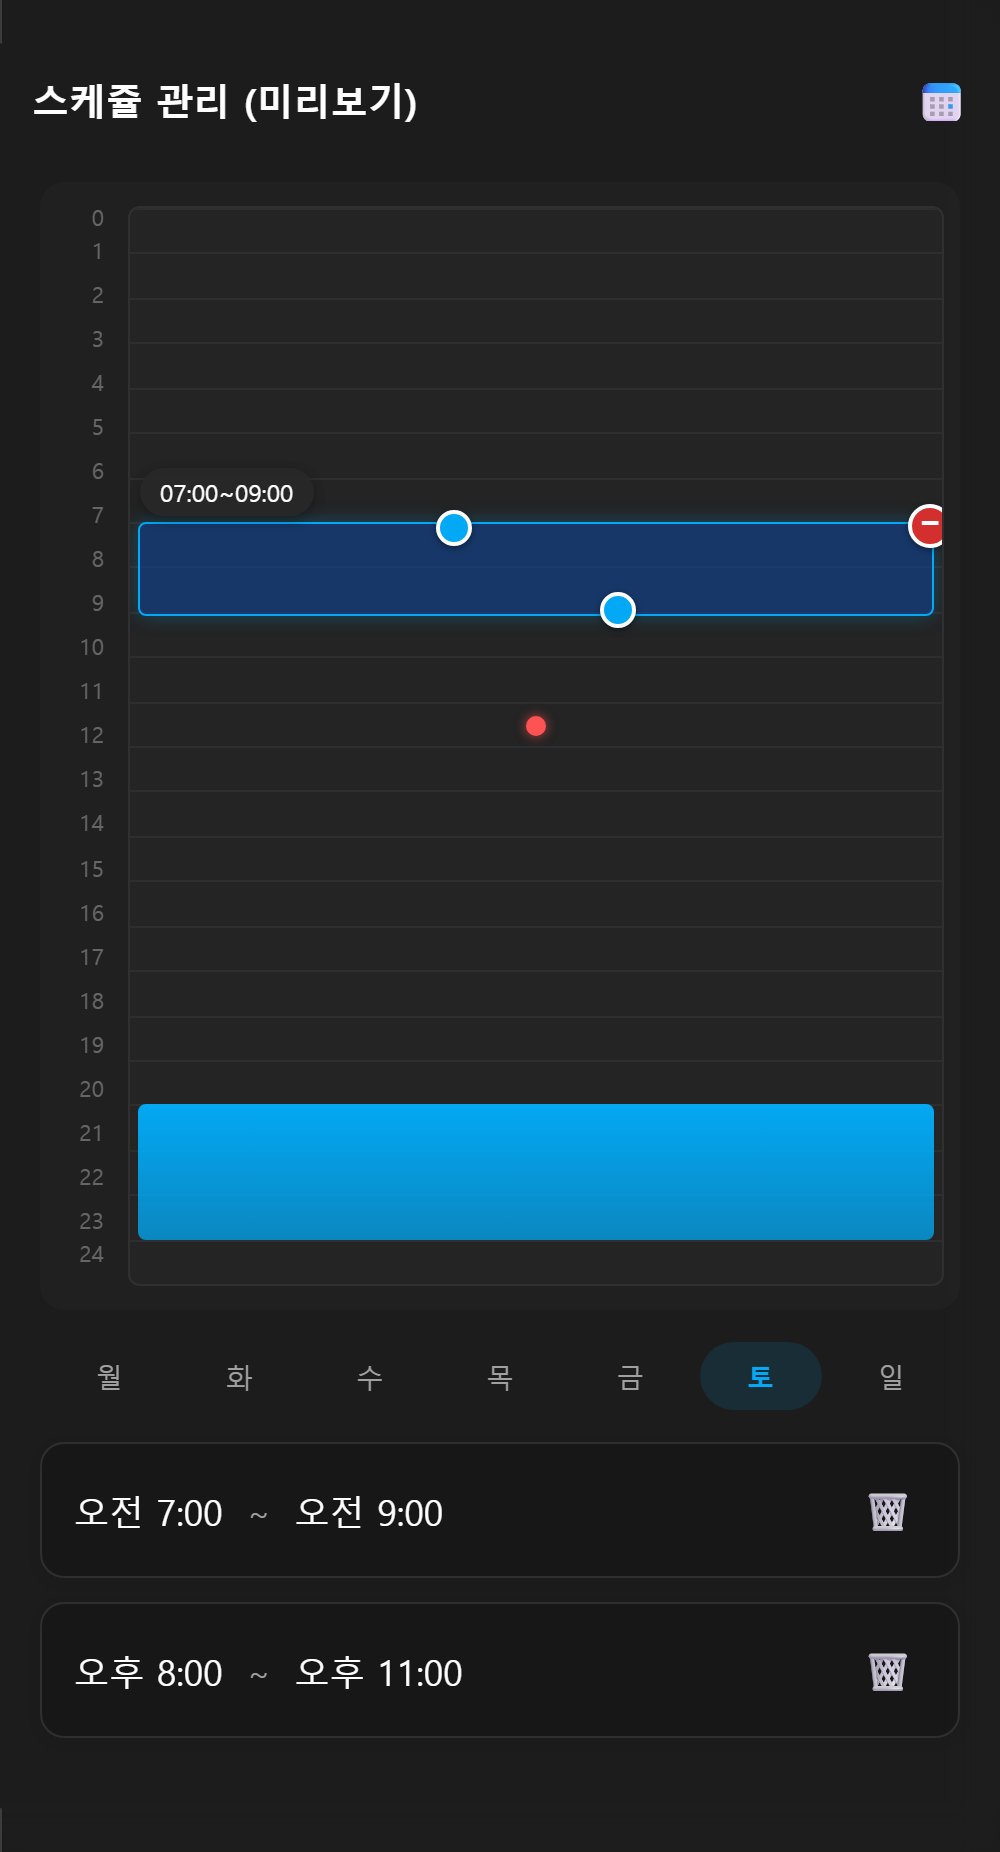
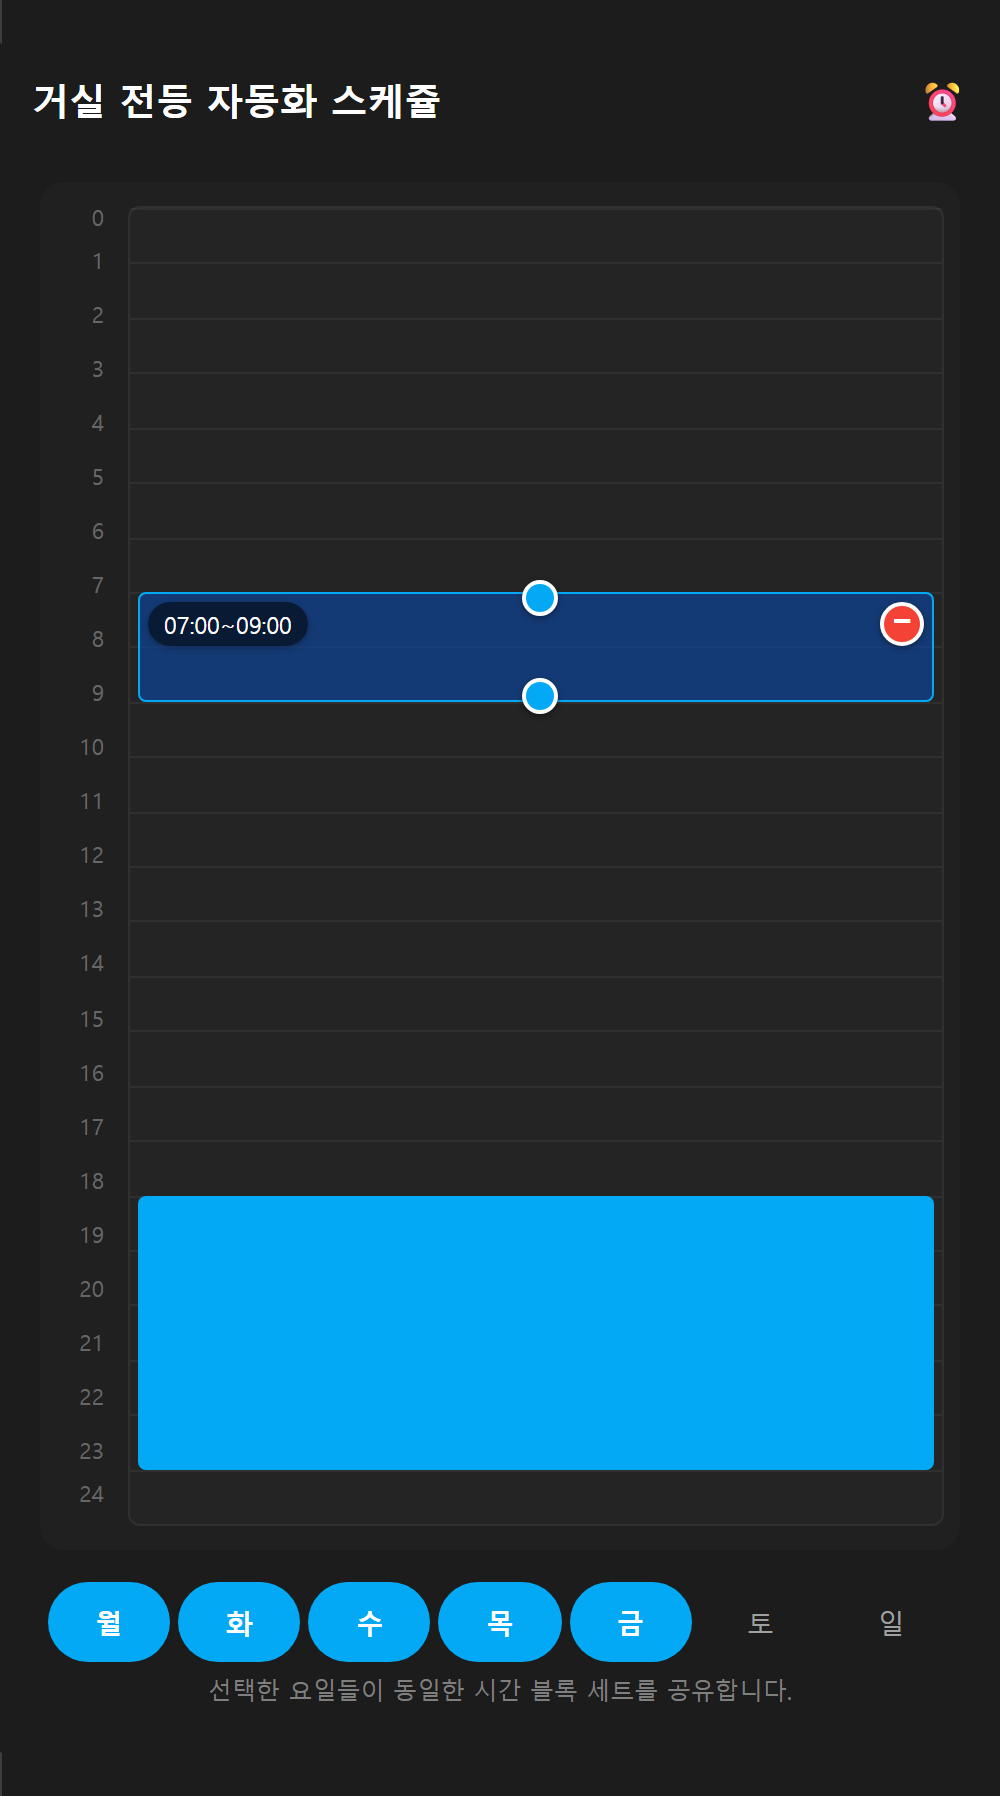
chore(screenshot): refresh README previews + add authenticated HA capture
Two-part screenshot story so the README/HACS listing matches v1.4 and
the user can also drive a real-dashboard capture locally.

1. README previews (assets/preview*.png) regenerated
   - dev/preview.html mock was originally written for the v1.0 card and
     stubbed schedule/list with an empty object, which broke v1.4's
     _loadSchedule -> result.find() flow. Rewrote the mock so:
       * schedule/list returns [mockSchedule] as an array
       * config/entity_registry/get returns a real unique_id, so the
         primary-match path in _loadSchedule succeeds
       * schedule/update mutates the same record in place
       * the mock card has weekday-only blocks
         (Mon-Fri 07-09 + 18-23), Sat/Sun empty — so _activeDays is
         inferred as [0..4] and the screenshot shows partial selection
   - npm run screenshot rebuilds assets/preview.png + preview-timer.png
     from this preview. The captured frames reflect every v1.4 polish
     pass: centered handles, in-block delete/pill, restrained palette,
     timer bloom removed, active-day pill multi-select.

2. Authenticated dashboard capture (scripts/screenshot-ha.js)
   - Reads HA_BASE_URL / HA_USER / HA_PASS from the environment
     (.env is gitignored; .env.example committed as a template).
   - Logs in through HA's standard username/password auth_provider,
     navigates to a target path (default /dashboard-test/0), and writes
       assets/dashboard.png    (full page)
[…]

diff --git a/dev/preview.html b/dev/preview.html
@@ -3,7 +3,7 @@
 <head>
   <meta charset="UTF-8">
   <meta name="viewport" content="width=device-width, initial-scale=1.0">
-  <title>HA Custom Schedule Card Preview (v1.0.0)</title>
+  <title>HA Custom Schedule Card Preview (v1.4)</title>
   <style>
     body {
       background-color: #1c1c1c;
@@ -16,25 +16,18 @@
       align-items: flex-start;
       min-height: 100vh;
       --primary-color: #03a9f4;
-      --card-background-color: rgba(255,255,255,0.05);
-      --divider-color: rgba(255,255,255,0.1);
+      --card-background-color: rgba(255, 255, 255, 0.05);
+      --divider-color: rgba(255, 255, 255, 0.1);
       --primary-text-color: #ffffff;
       --secondary-text-color: #a0a0a0;
       --error-color: #f44336;
-      /* Custom properties used in the card */
-      --custom-background: #1e1e1e;
-      --custom-border: rgba(255, 255, 255, 0.1);
-      --custom-primary: #03a9f4;
-      --custom-hover: rgba(3, 169, 244, 0.1);
     }
-
     #preview-container {
       width: 100%;
       max-width: 500px;
       margin-top: 40px;
       padding: 20px;
     }
-
     .toolbar {
       background: rgba(255, 255, 255, 0.1);
       padding: 10px 20px;
@@ -44,8 +37,6 @@
       justify-content: space-between;
       align-items: center;
     }
-
-    /* Mock HA Icon setup */
     ha-icon { display: inline-block; width: 24px; height: 24px; }
   </style>
   <script type="module" src="../timer-schedule-card.js"></script>
@@ -59,119 +50,90 @@
         <option value="en">English (EN)</option>
       </select>
     </div>
-    
-    <!-- Render Card Here -->
     <ha-custom-schedule-card id="myCard"></ha-custom-schedule-card>
   </div>
 
   <script>
-    // Mock HA Icons
+    // ── Mock ha-icon (emoji fallback) ────────────────────────────────────
     class HaIcon extends HTMLElement {
       connectedCallback() {
-        const icon = this.getAttribute('icon');
+        const icon = this.getAttribute('icon') || '';
         let emoji = '⚙️';
         if (icon.includes('trash')) emoji = '🗑️';
         if (icon.includes('plus')) emoji = '+';
         if (icon.includes('calendar')) emoji = '📅';
         if (icon.includes('lightbulb')) emoji = '💡';
-        
-        this.innerHTML = `<span style="font-size: 1.2rem; cursor: pointer;">${emoji}</span>`;
+        if (icon.includes('clock')) emoji = '⏰';
+        this.innerHTML = `<span style="font-size: 1.2rem;">${emoji}</span>`;
       }
     }
     customElements.define('ha-icon', HaIcon);
 
-    // Mock Backend Database (Schedule Helper)
-    let mockScheduleDB = [
-      {
-        id: "schedule.mock_livingroom_light",
-        name: "거실 전등 자동화 스케쥴",
-        icon: "mdi:lightbulb",
-        monday: [{from: "18:00:00", to: "23:00:00"}], 
-        tuesday: [{from: "18:00:00", to: "23:00:00"}], 
-        wednesday: [{from: "18:00:00", to: "23:00:00"}], 
-        thursday: [{from: "18:00:00", to: "23:00:00"}], 
-        friday: [{from: "18:00:00", to: "23:00:00"}, {from: "07:00:00", to: "09:00:00"}], 
-        saturday: [{from: "10:00:00", to: "23:59:00"}], 
-        sunday: [{from: "10:00:00", to: "23:59:00"}]
-      }
+    // ── Mock schedule storage (v1.4-friendly: weekday-only) ──────────────
+    // 월~금에만 시간 블록이 있고 주말은 비어있다.
+    // _hydrateFromSchedule 가 active_days = [0,1,2,3,4] 로 추론한다.
+    const WEEKDAYS = ['monday','tuesday','wednesday','thursday','friday','saturday','sunday'];
+    const weekdayBlocks = [
+      { from: '07:00:00', to: '09:00:00' },
+      { from: '18:00:00', to: '23:00:00' },
     ];
+    const storageId = 'mock_livingroom_light';
+    const entityId  = `schedule.${storageId}`;
+    const mockSchedule = {
+      id: storageId,
+      name: '거실 전등 자동화 스케쥴',
+      icon: 'mdi:lightbulb',
+      monday: [...weekdayBlocks],
+      tuesday: [...weekdayBlocks],
+      wednesday: [...weekdayBlocks],
+      thursday: [...weekdayBlocks],
+      friday: [...weekdayBlocks],
+      saturday: [],
+      sunday: [],
+    };
 
-    // Mock HASS Object
     const hass = {
       language: 'ko',
       states: {
-        'schedule.mock_livingroom_light': {
-          entity_id: 'schedule.mock_livingroom_light',
+        [entityId]: {
+          entity_id: entityId,
           state: 'off',
-          attributes: {
-            friendly_name: "거실 전등 자동화 스케쥴"
-          }
-        }
+          attributes: { friendly_name: mockSchedule.name },
+        },
       },
-      // Mock callWS for Registry Fetching and Updating
       callWS: async (payload) => {
-        console.log("Mock WS Call:", payload);
+        // v1.4 카드가 schedule/list 결과를 배열로 받아 .find(...) 한다.
         if (payload.type === 'schedule/list') {
-          // List endpoint isn't naturally used in frontend natively unless mapped?
-          // The frontend calls REST API via HA websocket.
+          return [mockSchedule];
         }
-        
-        // Mock get states/entities for schedule data
-        if (payload.type === 'config/entity_registry/list') {
-            return [];
+        // unique_id 가 있어야 1차 매칭이 성공한다.
+        if (payload.type === 'config/entity_registry/get' && payload.entity_id === entityId) {
+          return { entity_id: entityId, unique_id: storageId };
         }
-
-        // The card uses hass.states locally, but it might fetch if it wants
-        // Wait, schedule-ui.js calls "schedule/update" directly.
-        if (payload.type === 'schedule/update') {
-          const idx = mockScheduleDB.findIndex(s => s.id === payload.schedule_id);
-          if (idx !== -1) {
-            // merge keys (e.g. monday, tuesday, etc.)
-            mockScheduleDB[idx] = { ...mockScheduleDB[idx], ...payload };
-            
-            // Re-assign the entire states object to trigger UI re-render
-            const updatedHass = Object.assign({}, document.getElementById('myCard').hass);
-            
-            // In a real HA env, updating schedule data doesn't return state immediately.
-            // But we can trigger a re-render by doing this:
-            document.getElementById('myCard')._scheduleData = mockScheduleDB[idx];
-            document.getElementById('myCard').requestUpdate();
-            
-            return mockScheduleDB[idx];
+        // 저장 호출은 mockSchedule을 in-place 업데이트해서 다음 schedule/list 결과에 반영.
+        if (payload.type === 'schedule/update' && payload.schedule_id === storageId) {
+          for (const d of WEEKDAYS) {
+            if (Array.isArray(payload[d])) mockSchedule[d] = payload[d];
           }
+          return mockSchedule;
         }
-        
-        // Return dummy data when card fetch schedule details
-        if (payload.type === 'config/entity_registry/get') {
-            return { entity_id: payload.entity_id };
-        }
-
-        // Just mock what the card might request by returning the current mock DB object if possible
-        const scheduleData = mockScheduleDB.find(s => s.id === payload.entity_id || s.id === payload.schedule_id);
-        if (scheduleData) return scheduleData;
-
         return {};
-      }
+      },
     };
 
-    // Initialize Card
-    document.addEventListener("DOMContentLoaded", () => {
+    document.addEventListener('DOMContentLoaded', () => {
       const card = document.getElementById('myCard');
-      
-      // Inject dummy schedule data to the element directly if normal fetch fails
-      // card._scheduleData = mockScheduleDB[0];
-      
       card.setConfig({
-        type: "custom:ha-custom-schedule-card"
+        type: 'custom:ha-custom-schedule-card',
+        entity: entityId,
       });
       card.hass = { ...hass };
     });
 
-    // Handle Language Switching
-    window.switchLang = function(lang) {
+    window.switchLang = function (lang) {
       hass.language = lang;
       document.getElementById('myCard').hass = { ...hass };
-    }
+    };
   </script>
 </body>
 </html>

diff --git a/scripts/screenshot-ha.js b/scripts/screenshot-ha.js
@@ -1,0 +1,89 @@
+// Capture a screenshot of a real Home Assistant dashboard page.
+//
+// Usage:
+//   HA_USER=admin HA_PASS=hunter2 npm run screenshot:ha
+//   HA_USER=admin HA_PASS=hunter2 npm run screenshot:ha -- /dashboard-test/0
+//
+// Optional env:
+//   HA_BASE_URL  (default http://localhost:8123)
+//   HA_OUTPUT    (default assets/dashboard.png)
+//
+// Notes:
+//   - Credentials are read from environment only, never written to disk
+//     or committed. Use a .env or shell export before running.
+//   - The script signs in through the standard HA username/password
+//     auth_provider; storage state is kept in-process and discarded.
+//   - If a <ha-custom-schedule-card> or <ha-custom-timer-card> exists
+//     on the page, it'll also be captured separately into the assets/
+//     folder for use in the README.
+
+const path = require("path");
+const { chromium } = require("playwright");
+
+const BASE = process.env.HA_BASE_URL || "http://localhost:8123";
+const USER = process.env.HA_USER || "";
+const PASS = process.env.HA_PASS || "";
+const TARGET = process.argv[2] || "/dashboard-test/0";
+const OUT = process.env.HA_OUTPUT || path.join(__dirname, "..", "assets", "dashboard.png");
+
+if (!USER || !PASS) {
+  console.error("HA_USER and HA_PASS must be set in the environment. Aborting.");
+  process.exit(2);
+}
+
+(async () => {
+  const browser = await chromium.launch();
+  const ctx = await browser.newContext({
+    deviceScaleFactor: 2,
+    viewport: { width: 1280, height: 1600 },
+  });
+  const page = await ctx.newPage();
+  page.on("pageerror", (e) => console.warn("PAGE ERROR:", e.message));
+  page.on("console", (m) => {
+    if (m.type() === "error") console.warn("console.error:", m.text());
+  });
+
+  console.log(`[ha-screenshot] BASE=${BASE} TARGET=${TARGET}`);
+  console.log("[ha-screenshot] Navigating to root and signing in…");
+  await page.goto(`${BASE}/`, { waitUntil: "networkidle" });
+
+  // HA signs the user in through a nested lit/shadow form; Playwright handles
+  // shadow DOM piercing by default for `page.fill`/`page.click` selectors.
+  try {
+    await page.fill('input[name="username"]', USER, { timeout: 8000 });
+    await page.fill('input[name="password"]', PASS);
+    // The submit button is an mwc-button inside <ha-auth-form>. Press Enter as a fallback.
+    await page.keyboard.press("Enter");
+    await page.waitForLoadState("networkidle");
+  } catch (e) {
+    console.warn("[ha-screenshot] login form filling failed:", e.message);
+    console.warn("[ha-screenshot] continuing in case the session was already valid.");
+  }
+
+  console.log(`[ha-screenshot] Navigating to ${TARGET}…`);
+  await page.goto(`${BASE}${TARGET}`, { waitUntil: "networkidle" });
+  await page.waitForTimeout(2500);
+
+  console.log(`[ha-screenshot] Capturing full page -> ${OUT}`);
+  await page.screenshot({ path: OUT, fullPage: true });
+
+  for (const tag of ["ha-custom-schedule-card", "ha-custom-timer-card"]) {
+    const handle = await page.$(tag);
+    if (!handle) continue;
+    const fname = path.join(
+      __dirname,
+      "..",
+      "assets",
+      tag === "ha-custom-schedule-card" ? "preview.png" : "preview-timer.png",
+    );
+    console.log(`[ha-screenshot] ${tag} found -> ${fname}`);
+    try {
+      await handle.screenshot({ path: fname });
+    } catch (e) {
+      console.warn(`[ha-screenshot] failed to capture ${tag}:`, e.message);
+    }
+  }
+
+  await browser.close();
+  console.log("[ha-screenshot] Done.");
+})();

diff --git a/README.ko.md b/README.ko.md
@@ -154,6 +154,19 @@ npm run ha:down     # 컨테이너 정지·삭제
 npm run screenshot
 ```
 
+실제 HA 대시보드 캡처 (`npm run ha:up`로 로컬 HA가 떠 있어야 하며,
+`.env`에 자격증명을 채워둬야 함):
+
+```bash
+cp .env.example .env   # HA_USER / HA_PASS 입력
+npm run screenshot:ha                       # 기본 타겟: /dashboard-test/0
+npm run screenshot:ha -- /lovelace/0        # 임의의 HA 경로
+```
+
+`.env`는 gitignore됨. 스크립트는 한 번 로그인 후 전체 페이지를 캡처하고,
+페이지에서 카드 element가 발견되면 `assets/preview.png`, `assets/preview-timer.png`도
+함께 갱신합니다.
+
 프로젝트 구조:
 
 ```text

diff --git a/README.md b/README.md
@@ -155,6 +155,19 @@ Regenerate screenshots (uses Playwright + the dev preview pages):
 npm run screenshot
 ```
 
+Capture a real HA dashboard (requires the local HA from `npm run ha:up` and
+your credentials in `.env`):
+
+```bash
+cp .env.example .env   # then fill in HA_USER / HA_PASS
+npm run screenshot:ha                       # default target: /dashboard-test/0
+npm run screenshot:ha -- /lovelace/0        # any HA path
+```
+
+`.env` is gitignored. The script signs in once, captures the full page, and
+also writes per-card files (`assets/preview.png`, `assets/preview-timer.png`)
+if it finds the elements on the page.
+
 Project layout:
 
 ```text